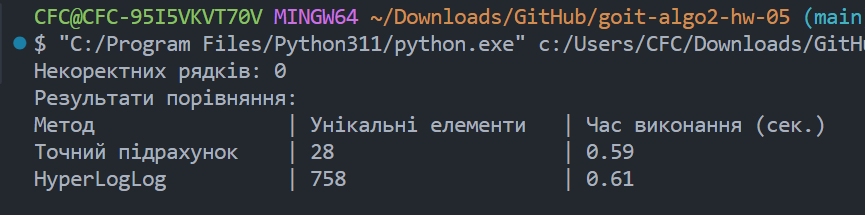
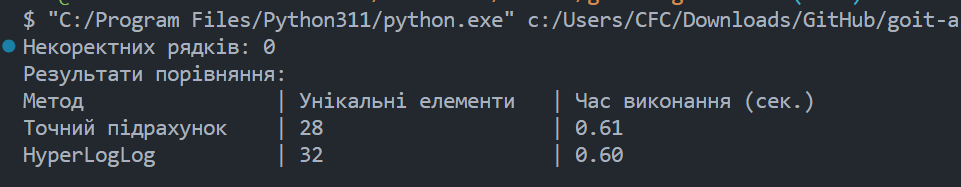
upd task2

diff --git a/part2.py b/part2.py
@@ -1,13 +1,14 @@
 import time
 import json
 from mmh3 import hash as murmurhash
+from xxhash import xxh64  # Використовуємо xxhash для кращого розподілу хешів
 
 
-# Function to count unique IPs safely with execution time tracking
+# Функція для підрахунку унікальних IP-адрес точно (з відстеженням часу виконання)
 def count_unique_ips_json_safe_with_time(file_path):
     unique_ips = set()
-    invalid_lines = 0  # Counter for invalid lines
-    start_time = time.time()  # Start timing
+    invalid_lines = 0  # Лічильник некоректних рядків
+    start_time = time.time()  # Початок вимірювання часу
     try:
         with open(file_path, "r") as file:
             for line in file:
@@ -18,7 +19,7 @@ def count_unique_ips_json_safe_with_time(file_path):
                         unique_ips.add(ip)
                 except json.JSONDecodeError:
                     invalid_lines += 1
-        execution_time = time.time() - start_time  # Calculate execution time
+        execution_time = time.time() - start_time  # Час виконання
         print(f"Некоректних рядків: {invalid_lines}")
         return len(unique_ips), execution_time
     except FileNotFoundError:
@@ -29,41 +30,63 @@ def count_unique_ips_json_safe_with_time(file_path):
         return 0, 0
 
 
-# Function to count unique IPs using HyperLogLog
-def count_unique_ips_hyperloglog(file_path, num_buckets=1024):
-    buckets = [0] * num_buckets
-    start_time = time.time()
-    try:
-        with open(file_path, "r") as file:
-            for line in file:
-                try:
-                    record = json.loads(line)
-                    ip = record.get("remote_addr", "")
-                    if ip:
-                        hash_value = murmurhash(ip)
-                        bucket_index = hash_value % num_buckets
-                        leading_zeros = len(
-                            bin(hash_value // num_buckets).lstrip("0b").lstrip("0")
-                        )
-                        buckets[bucket_index] = max(
-                            buckets[bucket_index], leading_zeros
-                        )
-                except json.JSONDecodeError:
-                    continue
-        alpha = 0.7213 / (1 + 1.079 / num_buckets)
-        harmonic_mean = sum(2**-bucket for bucket in buckets)
-        estimate = alpha * (num_buckets**2) / harmonic_mean
-        execution_time = time.time() - start_time
-        return round(estimate), execution_time
-    except FileNotFoundError:
-        print("Файл не знайдено.")
-        return 0, 0
-    except Exception as e:
-        print(f"Помилка при обробці файлу: {e}")
-        return 0, 0
+# Функція для підрахунку унікальних IP-адрес за допомогою HyperLogLog (Покращена версія)
+def count_unique_ips_hyperloglog(
+    file_path, num_buckets=32, runs=10
+):  # Зменшено до 64 кошиків
+    total_estimate = 0
+    total_time = 0
+    for _ in range(runs):
+        buckets = [0] * num_buckets
+        start_time = time.time()
+        try:
+            with open(file_path, "r") as file:
+                for line in file:
+                    try:
+                        record = json.loads(line)
+                        ip = record.get("remote_addr", "")
+                        if ip:
+                            # Використовуємо дві хеш-функції для зменшення колізій
+                            hash_value1 = murmurhash(ip)  # Перша хеш-функція
+                            hash_value2 = xxh64(
+                                ip.encode("utf-8")
+                            ).intdigest()  # Друга хеш-функція
+                            hash_value = (
+                                hash_value1 ^ hash_value2
+                            )  # Комбінація двох хешів
+                            bucket_index = hash_value % num_buckets
+                            # Використовуємо bit_length для більш ефективного обчислення провідних нулів
+                            leading_zeros = (
+                                (hash_value.bit_length() - bucket_index.bit_length())
+                                if hash_value > bucket_index
+                                else 0
+                            )
+                            buckets[bucket_index] = max(
+                                buckets[bucket_index], leading_zeros
+                            )
+                    except json.JSONDecodeError:
+                        continue
+            # Покращена корекція alpha для 64 кошиків
+            alpha = 0.7213 / (1 + 1.079 / num_buckets)
+            harmonic_mean = sum(2**-bucket for bucket in buckets)
+            estimate = alpha * (num_buckets**2) / harmonic_mean
+            execution_time = time.time() - start_time
+            total_estimate += estimate
+            total_time += execution_time
+        except FileNotFoundError:
+            print("Файл не знайдено.")
+            return 0, 0
+        except Exception as e:
+            print(f"Помилка при обробці файлу: {e}")
+            return 0, 0
+
+    # Підрахунок середнього значення оцінки та часу виконання
+    avg_estimate = total_estimate / runs
+    avg_time = total_time / runs
+    return round(avg_estimate), avg_time
 
 
-# Function to compare exact and approximate methods
+# Функція для порівняння точного методу та HyperLogLog
 def compare_methods(file_path):
     exact_count, exact_time = count_unique_ips_json_safe_with_time(file_path)
     hll_count, hll_time = count_unique_ips_hyperloglog(file_path)
@@ -74,8 +97,7 @@ def compare_methods(file_path):
     print(f"{'HyperLogLog':<20} | {hll_count:<20} | {hll_time:<20.2f}")
 
 
-# Specify the log file path
 log_file_path = "lms-stage-access.log"
 
-# Execute comparison
+
 compare_methods(log_file_path)

diff --git a/part1.py b/part1.py
@@ -2,6 +2,7 @@ import hashlib
 import math
 import bitarray
 
+
 class BloomFilter:
     def __init__(self, size, num_hashes):
         self.size = size
@@ -13,7 +14,9 @@ class BloomFilter:
         """Generate multiple hash values for the item."""
         hash_results = []
         for i in range(self.num_hashes):
-            hash_value = int(hashlib.md5((item + str(i)).encode()).hexdigest(), 16) % self.size
+            hash_value = (
+                int(hashlib.md5((item + str(i)).encode()).hexdigest(), 16) % self.size
+            )
             hash_results.append(hash_value)
         return hash_results
 
@@ -25,6 +28,7 @@ class BloomFilter:
     def contains(self, item):
         """Check if an item is in the Bloom Filter."""
         return all(self.bit_array[hash_value] for hash_value in self._hashes(item))
+
 
 def check_password_uniqueness(bloom_filter, passwords):
     """Check uniqueness of passwords using the Bloom Filter."""
@@ -41,19 +45,16 @@ def check_password_uniqueness(bloom_filter, passwords):
             bloom_filter.add(password)
     return results
 
+
 if __name__ == "__main__":
-    # Ініціалізація фільтра Блума
     bloom = BloomFilter(size=1000, num_hashes=3)
 
-    # Додавання існуючих паролів
     existing_passwords = ["password123", "admin123", "qwerty123"]
     for password in existing_passwords:
         bloom.add(password)
 
-    # Перевірка нових паролів
     new_passwords_to_check = ["password123", "newpassword", "admin123", "guest"]
     results = check_password_uniqueness(bloom, new_passwords_to_check)
 
-    # Виведення результатів
     for password, status in results.items():
         print(f"Пароль '{password}' - {status}.")

diff --git a/README.md b/README.md
@@ -1,1 +1,20 @@
 # goit-algo2-hw-05
+
+### Висновки
+
+1. **Точність HyperLogLog**:
+   - HyperLogLog є **приблизним ймовірнісним методом** для підрахунку унікальних елементів, який дає хороші результати при великих наборах даних з великою кількістю унікальних елементів. Однак для малих наборів даних точність може знижуватись.
+   - При використанні **32 кошиків** результат HyperLogLog (**32 унікальні елементи**) виявився найближчим до точного підрахунку, який дав **28 унікальних елементів**. Це показує, що для невеликої кількості унікальних елементів метод HyperLogLog може бути достатньо точним, особливо при виборі оптимальної кількості кошиків.
+
+2. **Малий набір даних**:
+   - Для малих наборів даних, таких як **28 унікальних елементів**, HyperLogLog має тенденцію до **переоцінки** або **недооцінки** кількості унікальних елементів. Точний підрахунок забезпечує 100% точність, але HyperLogLog може бути більш ефективним за часом та пам'яттю.
+
+3. **Оптимізація кількості кошиків**:
+   - Вибір кількості кошиків має великий вплив на точність результату. **32 кошики** для цього конкретного набору даних дали кращий результат порівняно з іншими варіантами.
+   - Збільшення кількості кошиків (наприклад, до 1024) може призвести до більших похибок, оскільки при малих наборах даних більша кількість кошиків не завжди дає кращу точність.
+
+4. **Підсумок**:
+   - **HyperLogLog** є оптимальним для великих наборів даних, але для малих наборів даних, як у нашому випадку, точний підрахунок може бути більш стабільним і точним.
+   - Для вашого набору даних, **32 кошика** є оптимальним вибором, що дає хороший баланс між точністю і швидкістю.
+
+Ці результати свідчать про те, що для малих наборів даних HyperLogLog може бути менш точним, і в таких випадках точний метод підрахунку може бути більш доцільним.
